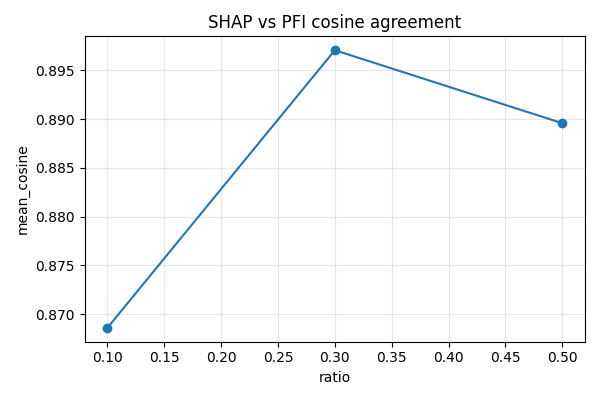
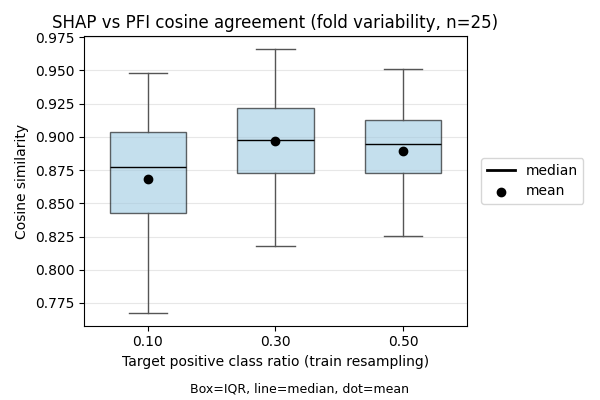
refine mvs variability plots

diff --git a/scripts/generate_mvs_report.py b/scripts/generate_mvs_report.py
@@ -7,6 +7,7 @@ from pathlib import Path
 import sys
 
 import matplotlib.pyplot as plt
+import numpy as np
 import pandas as pd
 
 ROOT = Path(__file__).resolve().parents[1]
@@ -33,53 +34,328 @@ def _plot_metric(
     plt.close(fig)
 
 
+def _plot_metric_with_error(
+    frame: pd.DataFrame,
+    *,
+    x: str,
+    y: str,
+    yerr: pd.Series,
+    title: str,
+    x_label: str,
+    y_label: str,
+    note: str | None,
+    reference_lines: list[float] | None,
+    use_scientific: bool = False,
+    y_limits: tuple[float, float] | None = None,
+    x_ticks: list[float] | None = None,
+    output: Path,
+) -> None:
+    fig, ax = plt.subplots(figsize=(6, 4))
+    ax.errorbar(frame[x], frame[y], yerr=yerr, marker="o", capsize=4, linestyle="none")
+    ax.set_title(title)
+    ax.set_xlabel(x_label)
+    ax.set_ylabel(y_label)
+    if x_ticks is not None:
+        ax.set_xticks(x_ticks, [f"{value:.2f}" for value in x_ticks])
+    if reference_lines:
+        for value in reference_lines:
+            ax.axhline(value, color="gray", linestyle="--", linewidth=1, alpha=0.4)
+    if y_limits is not None:
+        ax.set_ylim(*y_limits)
+    ax.grid(True, alpha=0.3)
+    if use_scientific:
+        ax.ticklabel_format(axis="y", style="sci", scilimits=(-3, 3))
+    if note:
+        fig.text(0.5, 0.01, note, ha="center", va="bottom", fontsize=9)
+        fig.tight_layout(rect=[0, 0.04, 1, 1])
+    else:
+        fig.tight_layout()
+    fig.savefig(output)
+    plt.close(fig)
+
+
+def _plot_distribution(
+    frame: pd.DataFrame,
+    *,
+    x: str,
+    y: str,
+    mean_frame: pd.DataFrame,
+    mean_x: str,
+    mean_y: str,
+    title: str,
+    x_label: str,
+    y_label: str,
+    note: str | None,
+    reference_lines: list[float] | None,
+    y_limits: tuple[float, float] | None = None,
+    output: Path,
+) -> None:
+    ratios = sorted(frame[x].unique())
+    fig, ax = plt.subplots(figsize=(6, 4))
+    data = [frame.loc[frame[x] == ratio, y].dropna() for ratio in ratios]
+    box = ax.boxplot(
+        data,
+        positions=range(len(ratios)),
+        widths=0.6,
+        patch_artist=True,
+        boxprops={"facecolor": "#9ecae1", "alpha": 0.6},
+        medianprops={"color": "black"},
+        whiskerprops={"color": "#555555"},
+        capprops={"color": "#555555"},
+    )
+    means = [
+        float(mean_frame.loc[mean_frame[mean_x] == ratio, mean_y].iloc[0])
+        for ratio in ratios
+    ]
+    ax.scatter(range(len(ratios)), means, color="black", zorder=3, label="mean")
+    ax.set_xticks(range(len(ratios)), [f"{ratio:.2f}" for ratio in ratios])
+    ax.set_xlabel(x_label)
+    ax.set_ylabel(y_label)
+    ax.set_title(title)
+    if reference_lines:
+        for value in reference_lines:
+            ax.axhline(value, color="gray", linestyle="--", linewidth=1, alpha=0.4)
+    if y_limits is not None:
+        ax.set_ylim(*y_limits)
+    ax.grid(True, axis="y", alpha=0.3)
+    median_handle = plt.Line2D([0], [0], color="black", linewidth=2, label="median")
+    handles = [median_handle, ax.collections[0]]
+    ax.legend(handles=handles, loc="center left", bbox_to_anchor=(1.02, 0.5))
+    if note:
+        fig.text(0.5, 0.01, note, ha="center", va="bottom", fontsize=9)
+        fig.tight_layout(rect=[0, 0.04, 1, 1])
+    else:
+        fig.tight_layout()
+    fig.savefig(output)
+    plt.close(fig)
+
+
+def _collect_importances(frame: pd.DataFrame, *, prefix: str, ratio: float) -> pd.DataFrame:
+    subset = frame[frame["class_ratio"] == ratio]
+    cols = [col for col in subset.columns if col.startswith(prefix)]
+    if not cols:
+        raise ValueError(f"No columns found for prefix {prefix}")
+    matrices: list[pd.Series] = []
+    for _, row in subset.iterrows():
+        series = row[cols]
+        series.index = [c.removeprefix(prefix) for c in cols]
+        matrices.append(series.astype(float))
+    return pd.concat(matrices, axis=1)
+
+
+def _rank_vector(values: pd.Series) -> pd.Series:
+    return values.rank(ascending=False, method="average")
+
+
+def _mean_rank_corr_per_fold(values: pd.DataFrame) -> list[float]:
+    ranks = values.apply(_rank_vector, axis=0)
+    corr = ranks.corr(method="spearman")
+    per_fold: list[float] = []
+    for col in corr.columns:
+        others = corr[col].drop(index=col)
+        per_fold.append(float(others.mean()))
+    return per_fold
+
+
+def _normalize_columns(values: pd.DataFrame) -> pd.DataFrame:
+    sums = values.sum(axis=0)
+    normalized = values.copy()
+    for idx, col in enumerate(values.columns):
+        total = sums.iloc[idx]
+        if total == 0:
+            normalized.iloc[:, idx] = np.nan
+        else:
+            normalized.iloc[:, idx] = values.iloc[:, idx] / total
+    return normalized
+
+
+def _magnitude_variance(values: pd.DataFrame) -> float:
+    normalized = _normalize_columns(values)
+    return float(normalized.var(axis=1, ddof=1).mean())
+
+
+def _bootstrap_magnitude_variance(
+    values: pd.DataFrame,
+    *,
+    n_boot: int = 200,
+    seed: int = 0,
+) -> float:
+    if values.shape[1] < 2:
+        return float("nan")
+    rng = np.random.default_rng(seed)
+    cols = list(values.columns)
+    stats = []
+    for _ in range(n_boot):
+        sampled = rng.choice(cols, size=len(cols), replace=True)
+        stats.append(_magnitude_variance(values[sampled]))
+    return float(np.std(stats, ddof=1))
+
+
+def _topk_overlap(a: pd.Series, b: pd.Series, k: int) -> float:
+    a_clean = a.dropna()
+    b_clean = b.dropna()
+    top_a = set(a_clean.nlargest(k).index)
+    top_b = set(b_clean.nlargest(k).index)
+    denom = min(k, len(a_clean), len(b_clean))
+    if denom == 0:
+        return float("nan")
+    return len(top_a.intersection(top_b)) / float(denom)
+
+
+def _cosine_similarity(a: pd.Series, b: pd.Series) -> float:
+    common = a.index.intersection(b.index)
+    if common.empty:
+        return float("nan")
+    a_vec = a.loc[common].to_numpy(dtype=float)
+    b_vec = b.loc[common].to_numpy(dtype=float)
+    denom = np.linalg.norm(a_vec) * np.linalg.norm(b_vec)
+    if denom == 0:
+        return float("nan")
+    return float(np.dot(a_vec, b_vec) / denom)
+
+
+def _agreement_per_fold(
+    shap_values: pd.DataFrame,
+    pfi_values: pd.DataFrame,
+    *,
+    top_k: int = 5,
+) -> pd.DataFrame:
+    rows: list[dict[str, float]] = []
+    for col in shap_values.columns:
+        shap_vec = shap_values[col].abs()
+        pfi_vec = pfi_values[col].abs()
+        corr = shap_vec.corr(pfi_vec, method="spearman")
+        rows.append(
+            {
+                "spearman": float(corr) if corr is not None else float("nan"),
+                "topk_overlap": _topk_overlap(shap_vec, pfi_vec, top_k),
+                "cosine": _cosine_similarity(shap_vec, pfi_vec),
+            }
+        )
+    return pd.DataFrame(rows)
+
+
 def generate_report(results_dir: Path) -> None:
     stability_path = results_dir / "stability_summary.csv"
     agreement_path = results_dir / "agreement_summary.csv"
+    results_path = results_dir / "results.csv"
 
     stability = pd.read_csv(stability_path)
     agreement = pd.read_csv(agreement_path)
+    results = pd.read_csv(results_path)
 
     plots_dir = results_dir / "plots"
     plots_dir.mkdir(parents=True, exist_ok=True)
 
+    ratios = sorted(results["class_ratio"].unique())
+    ratio_label = "Target positive class ratio (train resampling)"
+    fold_note = "Box=IQR, line=median, dot=mean"
+    ratio_ticks = [float(ratio) for ratio in ratios]
+
     for method in stability["method"].unique():
         subset = stability[stability["method"] == method].sort_values("ratio")
-        _plot_metric(
-            subset,
+        rank_rows = []
+        n_folds = None
+        for ratio in ratios:
+            values = _collect_importances(results, prefix=f"{method}_", ratio=ratio)
+            n_folds = values.shape[1]
+            per_fold = _mean_rank_corr_per_fold(values)
+            rank_rows.extend(
+                {"ratio": ratio, "mean_rank_corr": value} for value in per_fold
+            )
+        rank_frame = pd.DataFrame(rank_rows)
+        _plot_distribution(
+            rank_frame,
             x="ratio",
             y="mean_rank_corr",
-            title=f"{method.upper()} rank stability",
+            mean_frame=subset,
+            mean_x="ratio",
+            mean_y="mean_rank_corr",
+            title=f"{method.upper()} rank stability (fold variability, n={n_folds})",
+            x_label=ratio_label,
+            y_label="Fold-to-fold rank correlation (Spearman)",
+            note=fold_note,
+            reference_lines=None,
             output=plots_dir / f"{method}_rank_stability.png",
         )
-        _plot_metric(
+        mag_rows = []
+        for ratio in ratios:
+            values = _collect_importances(results, prefix=f"{method}_", ratio=ratio)
+            magnitude_values = values.abs() if method == "pfi" else values
+            mag_rows.append(
+                {
+                    "ratio": ratio,
+                    "sd_magnitude_var": _bootstrap_magnitude_variance(magnitude_values),
+                }
+            )
+        mag_frame = pd.DataFrame(mag_rows)
+        _plot_metric_with_error(
             subset,
             x="ratio",
             y="mean_magnitude_var",
-            title=f"{method.upper()} magnitude variance",
+            yerr=mag_frame.sort_values("ratio")["sd_magnitude_var"],
+            title=f"{method.upper()} magnitude variance (mean ± bootstrap SD)",
+            x_label=ratio_label,
+            y_label="Mean magnitude variance",
+            note="Point = mean over folds; error bars = bootstrap SD (pooled across folds)",
+            reference_lines=None,
+            use_scientific=True,
+            x_ticks=ratio_ticks,
             output=plots_dir / f"{method}_magnitude_variance.png",
         )
 
     agreement_sorted = agreement.sort_values("ratio")
-    _plot_metric(
-        agreement_sorted,
+    agreement_rows = []
+    top_k = 5
+    n_folds = None
+    for ratio in ratios:
+        shap_values = _collect_importances(results, prefix="shap_", ratio=ratio)
+        pfi_values = _collect_importances(results, prefix="pfi_", ratio=ratio)
+        n_folds = shap_values.shape[1]
+        per_fold = _agreement_per_fold(shap_values, pfi_values, top_k=top_k)
+        per_fold["ratio"] = ratio
+        agreement_rows.append(per_fold)
+    agreement_frame = pd.concat(agreement_rows, ignore_index=True)
+    _plot_distribution(
+        agreement_frame,
         x="ratio",
-        y="mean_spearman",
-        title="SHAP vs PFI Spearman agreement",
+        y="spearman",
+        mean_frame=agreement_sorted,
+        mean_x="ratio",
+        mean_y="mean_spearman",
+        title=f"SHAP vs PFI Spearman agreement (fold variability, n={n_folds})",
+        x_label=ratio_label,
+        y_label="Spearman correlation",
+        note=fold_note,
+        reference_lines=None,
         output=plots_dir / "agreement_spearman.png",
     )
-    _plot_metric(
-        agreement_sorted,
+    _plot_distribution(
+        agreement_frame,
         x="ratio",
-        y="mean_topk_overlap",
-        title="SHAP vs PFI top-k overlap",
+        y="topk_overlap",
+        mean_frame=agreement_sorted,
+        mean_x="ratio",
+        mean_y="mean_topk_overlap",
+        title=f"SHAP vs PFI top-k overlap (k={top_k}, n={n_folds})",
+        x_label=ratio_label,
+        y_label="Top-k overlap (|intersection|/k)",
+        note=fold_note,
+        reference_lines=None,
         output=plots_dir / "agreement_topk_overlap.png",
     )
-    _plot_metric(
-        agreement_sorted,
+    _plot_distribution(
+        agreement_frame,
         x="ratio",
-        y="mean_cosine",
-        title="SHAP vs PFI cosine agreement",
+        y="cosine",
+        mean_frame=agreement_sorted,
+        mean_x="ratio",
+        mean_y="mean_cosine",
+        title=f"SHAP vs PFI cosine agreement (fold variability, n={n_folds})",
+        x_label=ratio_label,
+        y_label="Cosine similarity",
+        note=fold_note,
+        reference_lines=None,
         output=plots_dir / "agreement_cosine.png",
     )
 

diff --git a/docs/mvs_results_summary.md b/docs/mvs_results_summary.md
@@ -39,7 +39,8 @@ Data source: `results/mvs-hpo-20260202-031158-8bf30d5a/`
 
 ## Notes / limitations
 
-- Agreement and stability metrics are averaged across folds; variability within ratios is not shown here.
+- Rank-stability and agreement plots now show fold-level distributions; tables still report fold-averaged means.
+- Magnitude-variance plots show mean with bootstrap SD across folds (dispersion, not inferential CIs).
 - Agreement metrics compare absolute importances to align with mean(|SHAP|).
 - These are baseline MVS results; optional stretches (e.g., metric sensitivity, signed SHAP) may alter conclusions.
 
